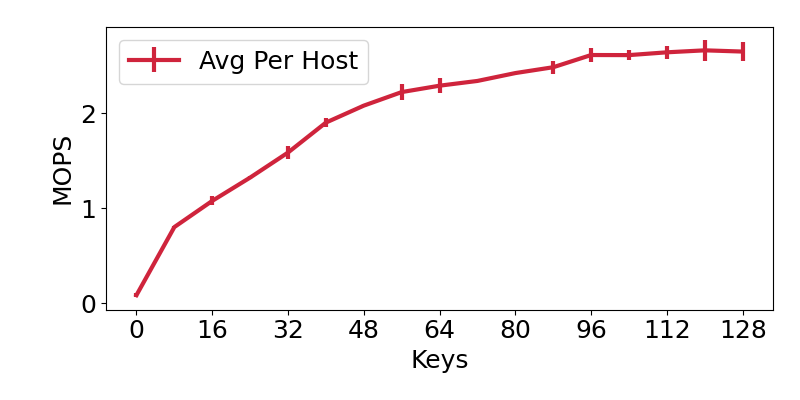
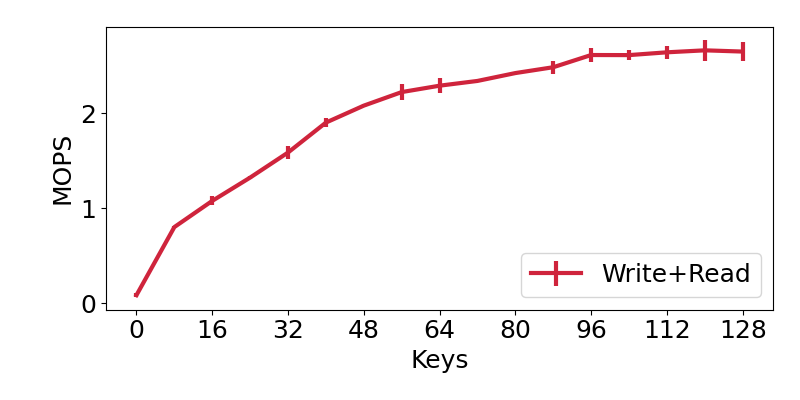
adjusted chart

Changed region(s): [[0.6562, 0.63, 0.9375, 0.72], [0.25, 0.12, 0.4688, 0.18], [0.1562, 0.12, 0.2188, 0.18]]

diff --git a/papers/NSDI23/fig/keys_tracked.py b/papers/NSDI23/fig/keys_tracked.py
@@ -39,6 +39,7 @@ terr=rate_per_host(terr,6.0)
 tput=div_mil(tput)
 terr=div_mil(terr)
 
+print(tput)
 wins(tput,keys)
 
 print(len(keys))
@@ -53,13 +54,13 @@ x = np.arange(len(keys))  # the label locations
 plt.rcParams.update({'font.size': 18})
 #fig, ax = plt.subplots()
 fig, ax = plt.subplots(1,1, figsize=(8,4))
-rects1 = ax.errorbar(keys, tput, yerr=terr, color=read_write_steering_color, linewidth=3, label="Avg Per Host") #, width, label=treatment_label, color='tab:blue', hatch='\\')
+rects1 = ax.errorbar(keys, tput, yerr=terr, color=read_write_steering_color, linewidth=3, label="Write+Read") #, width, label=treatment_label, color='tab:blue', hatch='\\')
 
 # Add some text for labels, title and custom x-axis tick labels, etc.
 ax.set_ylabel('MOPS')
 ax.set_xticks(x_lab)
 ax.set_xticklabels(keys_label)
 ax.set_xlabel("Keys")
-ax.legend()
+ax.legend(loc="lower right")
 fig.tight_layout()
 save_fig(plt)
